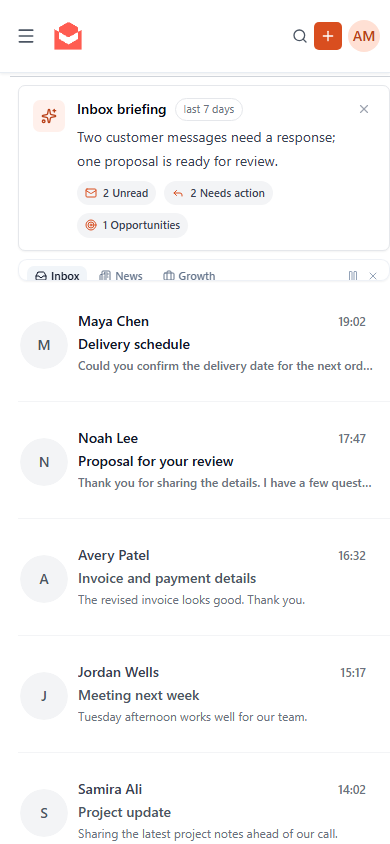
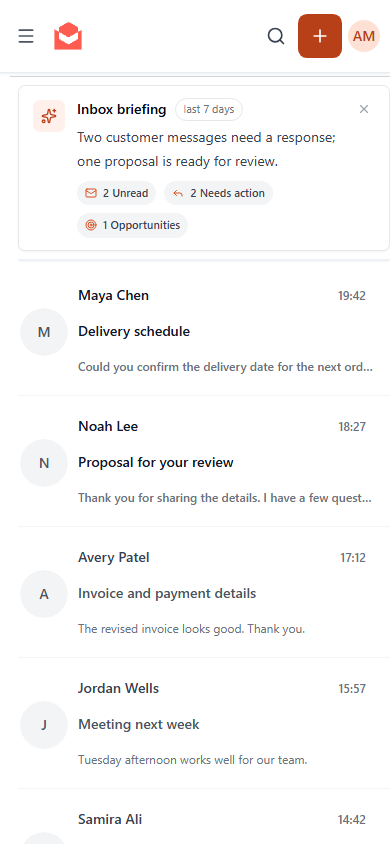
Refresh mobile inbox preview

diff --git a/src/components/home/MotionPreview.jsx b/src/components/home/MotionPreview.jsx
@@ -44,7 +44,7 @@ export default function MotionPreview({ name, caption, note, alt, desktop, mobil
         <span>{caption}</span>
         <div className="flex flex-wrap items-center gap-3">
           {note && <span>{note}</span>}
-          {ready && !failed && <button type="button" aria-label={`${wantsMotion ? 'Pause' : 'Play'} ${name.toLowerCase()} demonstration`} className="min-h-11 rounded px-2 font-semibold text-[#8a3515] underline underline-offset-4 focus:outline-none focus:ring-2 focus:ring-orange-700" onClick={() => setChoice(!wantsMotion)}>{wantsMotion ? 'Pause demonstration' : 'Play demonstration'}</button>}
+          {ready && !failed && <button type="button" aria-label={`${wantsMotion ? 'Stop' : 'Play'} ${name.toLowerCase()} demonstration`} className="min-h-11 rounded px-2 font-semibold text-[#8a3515] underline underline-offset-4 focus:outline-none focus:ring-2 focus:ring-orange-700" onClick={() => setChoice(!wantsMotion)}>{wantsMotion ? 'Stop demonstration' : 'Play demonstration'}</button>}
         </div>
       </figcaption>
     </figure>

diff --git a/docs/reviews/shared-inbox-preview-provenance.md b/docs/reviews/shared-inbox-preview-provenance.md
@@ -4,6 +4,10 @@ The desktop preview composes the shipped `InboxSelector`, `SharedInboxConversati
 
 Recapture after material changes to the application component. Verify all visible data, responsive readability and the access condition before publishing a replacement.
 
+## Primary inbox mobile demonstration
+
+The mobile animation and poster render the actual `Mails.tsx` page and application shell with synthetic Inertia props and a mocked briefing response. It shows the inbox, composer, and send-options menu; no message is sent or scheduled. Names, addresses and messages are invented. The recording uses mailer_web `62746882499cf8caa13a03dd0a8a39bc5413b83f` plus the pending mobile `UnifiedMenu.tsx`, `MobileMailControls.tsx`, and `MailItemMobile.tsx` changes. Release the refreshed asset only after those changes are deployed, and recapture if the visible UI changes.
+
 ## Venia signing preview
 
 The signing previews capture the shipped `SigningDocuments.vue` requests section from vensuite commit `7326858` with a stubbed API response containing invented document names and signer identities. The mobile preview uses the same component at a narrow viewport. No production account or customer data was used. These are component crops, not the full application.
